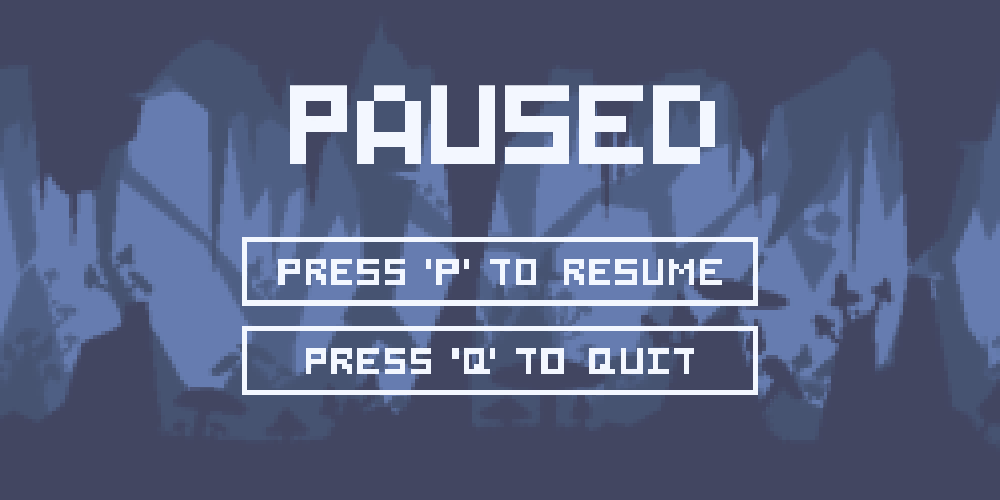
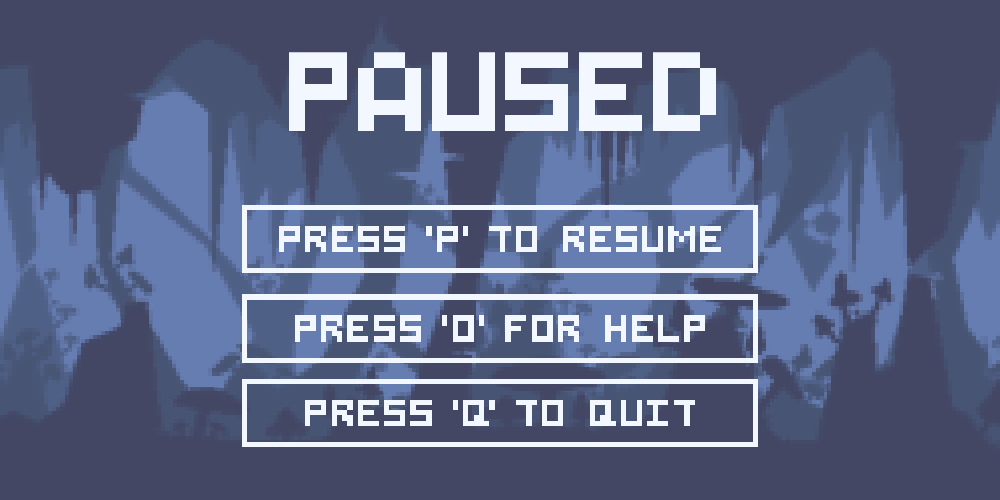
sort of working bomb

Changed region(s): [[0.217, 0.39, 0.775, 0.9], [0.279, 0.09, 0.713, 0.33]]

diff --git a/src/graphics.py b/src/graphics.py
@@ -15,6 +15,7 @@ from cmu_112_graphics import *
 from mapGenerator import *
 from mobAI import *
 from bossAI import *
+from items import *
 
 ##############################################
 
@@ -117,6 +118,8 @@ def appStarted(app):
     app.lose = False
     app.start = 0
     app.changeRoom = False
+    app.help = False
+    app.secretFound = None
 
     # fill normal rooms with different room templates
     app.curRoom = (3,3)
@@ -128,6 +131,8 @@ def appStarted(app):
     fillRooms(app)
     print(app.map)
     app.roomType = app.map[app.curRoom[0]][app.curRoom[1]]
+    app.items = app.roomType.items
+    app.bombs = []
 
     # character variables
     app.charX = app.width//2
@@ -143,11 +148,14 @@ def appStarted(app):
     app.charProj = []
     initImages(app)
     app.charHP = 5
+    app.charBombs = 1
 
     # mobs
     app.mobs = app.roomType.mobs
     for mob in app.globalMobs:
         mob.imageInit(app)
+
+
 
 
 
@@ -163,8 +171,9 @@ def appStarted(app):
 # start screen: text created by me, but background from here: https://lil-cthulhu.itch.io/pixel-art-mushroom-cave-background
 # pause screen: same as start screen
 # loading screen: same as start screen
+# bomb: https://www.vectorstock.com/royalty-free-vector/black-bomb-pixel-art-colorful-vector-21005227
 def initImages(app):
-    # background --
+    # backgrounds and screens --
     app.winImage = app.loadImage("youWin.jpg")
     app.winImage = app.scaleImage(app.winImage,2)
     app.loseImage = app.loadImage("youLose.jpg")
@@ -172,9 +181,11 @@ def initImages(app):
     app.startImage = app.loadImage("startScreen.png")
     app.pauseImage = app.loadImage("pauseImage.png")
     app.loadingImage = app.loadImage("loadingImage.png")
+    app.helpImage = app.loadImage("helpMenu.png")
     app.bgImage = app.loadImage('stoneBG.png')
     app.bgImage = app.bgImage.resize((app.width,app.height))
     app.bgWidth,app.bgHeight = app.bgImage.size
+
     # character projectiles --
     app.poopImage = app.loadImage('poop.png')
     app.poopImage = app.scaleImage(app.poopImage,.5)
@@ -233,6 +244,10 @@ def redrawAll(app,canvas):
             elif dir == (0,1):
                 canvas.create_rectangle(app.width-75,app.height/2-30,app.width,app.height/2+30, fill = "black")
     
+    # items
+    for bomb in app.bombs:
+        canvas.create_image(bomb.cx,bomb.cy,image = ImageTk.PhotoImage(bomb.image))
+
     # --character
     spriteImage = app.sprites[app.direction][app.charSpriteCounter]
     if app.charHP > 0:
@@ -261,27 +276,32 @@ def redrawAll(app,canvas):
         y1 = app.lifeHeight
         canvas.create_image((x0+x1)/2,(y0+y1)/2, image = ImageTk.PhotoImage(app.life))
     
-    # screen for room switch
+    # screens
     if app.newRoom > 0:
         canvas.create_image(app.curRoomCX,app.curRoomCY,image = ImageTk.PhotoImage(app.loadingImage))
-
     if app.paused == True:
         canvas.create_image(app.curRoomCX,app.curRoomCY,image = ImageTk.PhotoImage(app.pauseImage))
-
     if app.win == True:
         canvas.create_image(app.curRoomCX,app.curRoomCY,image = ImageTk.PhotoImage(app.winImage))
-
     if app.lose == True:
         canvas.create_image(app.curRoomCX,app.curRoomCY,image = ImageTk.PhotoImage(app.loseImage))
-    
     if app.start == 0:
         canvas.create_image(app.curRoomCX,app.curRoomCY,image = ImageTk.PhotoImage(app.startImage))
+    if app.help == True:
+        canvas.create_image(app.curRoomCX,app.curRoomCY,image = ImageTk.PhotoImage(app.helpImage))
     
 
 
 def timerFired(app):
     if app.paused == False:
         app.count += 1
+        m = 0
+        while m < len(app.bombs):
+            bomb = app.bombs[m]
+            bomb.timer += 1
+            if bomb.timer >= 10:
+                bomb.explode(app)
+                app.bombs.pop(m)
         if app.newRoom > 0:
             app.newRoom -= 1
         if app.isMoving:
@@ -329,6 +349,7 @@ def timerFired(app):
                     else:
                         k += 1
             else:
+                # similar for boss minions
                 for minion in mob.minionList:
                     minion.move(app,5)
                     # slows down mob atks
@@ -482,12 +503,25 @@ def keyReleased(app,event):
         app.movingDown = False
     elif event.key == "r":
         app.charHP = 5
+    elif event.key == "e" and app.charBombs > 0:
+        app.charBombs -= 1
+        newBomb = Bomb()
+        newBomb.cx = app.charX
+        newBomb.cy = app.charY
+        app.bombs.append(newBomb)
+        newBomb.initImages(app)
+        newBomb.placed(app)
     elif event.key == "p":
         app.paused = not app.paused
         app.start += 1
     elif event.key == "q":
-        app.start = 0
-        app.paused = True
+        if app.help == True:
+            app.help = False
+        else:
+            app.start = 0
+            app.paused = True
+    elif app.paused and event.key == "o":
+        app.help = True
     elif event.key == "0":
         bossLoc = None
         for i in range(7):

diff --git a/src/items.py b/src/items.py
@@ -1,0 +1,92 @@
+import random
+
+class Item(object):
+    def __init__(self):
+        self.image = None
+        self.cx = 0
+        self.cy = 0
+    
+    def used(self):
+        pass
+    
+def inBounds(map,row,col):
+    if row < len(map) and row >= 0 and col < len(map[0]) and col >= 0:
+        return True
+    else:
+        return False
+
+class Bomb(Item):
+    def initImages(self,app):
+        self.unlit = app.loadImage("BombUnlit.png")
+        self.unlit = app.scaleImage(self.unlit,0.25)
+        self.lit = app.loadImage("BombLit.png")
+        self.lit = app.scaleImage(self.lit,0.25)
+        self.image = self.unlit
+        self.timer = 0
+        self.cx = 0
+        self.cy = 0
+        
+    def explode(self,app):
+        # top door
+        if (self.cx > app.width/2 - 40) and (self.cx < app.width/2 + 40) and self.cy < 100:
+            row = app.curRoom[0] - 1
+            col = app.curRoom[1]
+            if inBounds(app.map,row,col) and (app.map[row][col] == "secretRoom" or app.map[row][col] == "superSecretRoom"):
+                app.secretFound = app.curRoom
+        # bottom door
+        elif (self.cx > app.width/2 - 40) and (self.cx < app.width/2 + 40) and self.cy > 425:
+            row = app.curRoom[0] + 1
+            col = app.curRoom[1]
+            if inBounds(app.map,row,col) and (app.map[row][col] == "secretRoom" or app.map[row][col] == "superSecretRoom"):
+                app.secretFound = app.curRoom
+        # left door
+        elif (self.cy > app.height/2 - 40) and (self.cy < app.height/2 + 40) and self.cx < 100:
+            row = app.curRoom[0]
+            col = app.curRoom[1] - 1
+            if inBounds(app.map,row,col) and (app.map[row][col] == "secretRoom" or app.map[row][col] == "superSecretRoom"):
+                app.secretFound = app.curRoom
+        # right door
+        elif (self.cy > app.height/2 - 40) and (self.cy < app.height/2 + 40) and self.cx > 400:
+            row = app.curRoom[0]
+            col = app.curRoom[1] - 1
+            if inBounds(app.map,row,col) and (app.map[row][col] == "secretRoom" or app.map[row][col] == "superSecretRoom"):
+                app.secretFound = app.curRoom
+    
+    def placed(self,app):
+        self.image = self.lit
+        self.timer = 0
+        self.cx = app.charX
+        self.cy = app.charY
+
+# take less damage, greater attack
+class Egg(Item):
+    pass
+
+# bigger, stronger poops
+class Milk(Item):
+    pass
+
+# New attack mode - melee with left click
+class Dagger(Item):
+    pass
+
+# Makes character run faster
+class Soda(Item):
+    pass
+
+# heals health
+class Heart(Item):
+    pass
+
+# Every time you kill an enemy (not a minion) you gain a heart
+class Bat(Item):
+    pass
+
+def bombPlaced(app):
+    # top door
+    # bottom door
+    # left door
+    # right door
+    pass
+
+# Bomb

diff --git a/src/bossAI.py b/src/bossAI.py
@@ -59,7 +59,6 @@ class Attack(State):
             self.stateMachine.curState = Move(self.stateMachine)
             self.stateMachine.changeState = True
         self.timer += 1
-        
 
 class Enraged(State): 
     def run(self,app):
@@ -70,7 +69,6 @@ class Enraged(State):
             self.stateMachine.curState = nextMoves[random.randint(0,1)]
             self.stateMachine.changeState = True
         self.timer += 1
-
 
 class Skill(State): 
     def run(self,app):

diff --git a/src/mapGenerator.py b/src/mapGenerator.py
@@ -180,6 +180,7 @@ class DungeonRoom(object):
         self.liveMobs = []
         self.background = None
         self.obsLocations = {}
+        self.items = dict()
         self.map = [[1,0,0,0,0,0,0,0,1],
                     [0,0,0,0,0,0,0,0,0],
                     [0,0,0,0,0,0,0,0,0],
